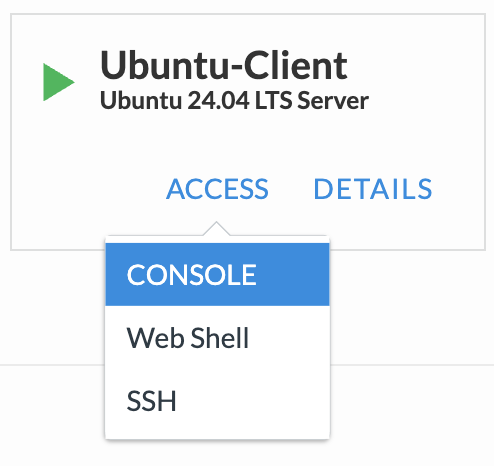
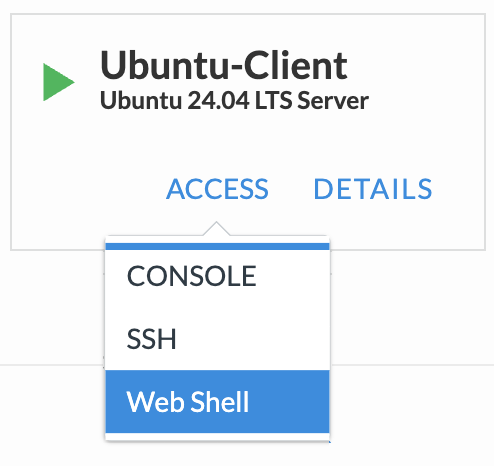
Module2 updates

Changed region(s): [[0.2126, 0.7811, 0.668, 0.9614], [0.2126, 0.5107, 0.668, 0.6609], [0.2429, 0.691, 0.5162, 0.7511]]

diff --git a/docs/class8/Module2/lab2-2.rst b/docs/class8/Module2/lab2-2.rst
@@ -8,7 +8,7 @@ Task 2:  Using Modified TCP Profiles
        :width: 600px
 
 
-   The main difference with **f5-tcp-progessive** is Auto Proxy Buffer is enabled in the Memory Management section.  Auto Proxy Buffer adjuests the TCP buffers settings based on performance of the conenctions.
+   The main difference with **f5-tcp-progessive** is Auto Proxy Buffer is enabled in the Memory Management section.  Auto Proxy Buffer adjusts the TCP buffers settings based on performance of the conenctions.
 
    .. image:: ../images/tcp_progressive_buffers.png
        :width: 800px
@@ -24,12 +24,11 @@ Task 2:  Using Modified TCP Profiles
     timeout 5s tcpdump -nni internal host 10.1.10.15 and 'tcp[14:2] == 0 && tcp[13] == 16' -s 500  
    
 
-   You should see a reduction in TCP Zero Window packets - maybe 300-450 packets in 5s.  This is an improvement but not the best for the traffic in the lab.  As we saw during Lab 1, there is a mix of 16kB-3MB files going from the internal, low latency, side through to the external, higher latency, client side. <<reword last part of this>>  The f5-tcp-progressive TCP profile adjusts the TCP buffers based on connection conditions.  It uses bandwidth delay product to calculate the TCP buffers.
+   You should see a reduction in TCP Zero Window packets - maybe 300-450 packets in 5s.  This is an improvement but not the best for the traffic in the lab.  As we saw during Lab 1, there is a mix of 16kB-3MB files going from the internal, low latency, side through to the external, higher latency, client side. The **f5-tcp-progressive** TCP profile adjusts the TCP buffers based on connection conditions.  It uses bandwidth delay product to calculate the TCP buffers.
    
-      
-   In the lab, there is very low latency on the server-side connetions (pool members) and higher latency on the client-side connections.  With most HTTP traffic the client is requesting something from the server (GET) and the server is replying with the requested data.  The f5-tcp-progressive TCP profile is not adequately setting the buffers because the sending side is high bandwidth with low latency.
+   In the lab, there is very low latency on the server-side connetions (pool members) and higher latency on the client-side connections.  With most HTTP traffic the client is requesting something from the server (GET) and the server is replying with the requested data.  The **f5-tcp-progressive** TCP profile is not adequately setting the buffers because the sending (server) side is high bandwidth with low latency.
 
-3. From the BIGIP01 SSH window, run the following packet capture filtering in SYN and SYN/ACK packets ('tcp[13] & 2 != 0') from the client.::
+3. From the BIGIP01 Web Shell window, run the following packet capture filtering in SYN and SYN/ACK packets ('tcp[13] & 2 != 0') from the client.::
 
     tcpdump -nni external host 10.1.30.6 and 'tcp[13] & 2 != 0' -c 4
 
@@ -40,7 +39,7 @@ Task 2:  Using Modified TCP Profiles
       11:14:45.819337 IP 10.1.30.6.36460 > 10.1.20.103.443: Flags [S], seq 991761495, win 64240, options [mss 1460,sackOK,TS val 142205951 ecr 0,nop,wscale 7], length 0 in slot1/tmm0 lis= port=1.2 trunk=
       11:14:45.819391 IP 10.1.20.103.443 > 10.1.30.6.36460: Flags [S.], seq 2970736692, ack 991761496, win 23360, options [mss 1460,nop,wscale 9,sackOK,TS val 1829159866 ecr 142205951], length 0 out slot1/tmm0 lis=/Common/web01_vs1 port=1.2 trunk=
 
-   Here the client (10.1.30.6) is advertising **wscale 7** with the SYN and BIGIP01 is responding with **wscale 9** in the SYN/ACK so the TCP Window can scale up to the buffer limits determined by the **f5-progressive** TCP profile. 
+   The client (10.1.30.6) is advertising **wscale 7** in the SYN packet and BIGIP01 is responding with **wscale 9** in the SYN/ACK packet so the TCP Window can scale up to the buffer limits determined by the **f5-progressive** TCP profile. 
 
 4. Check the Ubuntu-Client output from the script.  You should see something similar to this::
    
@@ -59,15 +58,17 @@ Task 2:  Using Modified TCP Profiles
       user  0m0.092s
       sys   0m0.100s
 
-   With the **f5-tcp-progressive** TCP profiles, the download performance is much better even though TCP Zero Window packet were still seen during the capture.  This profile allows for TCP Window scaling so more data can be in flight pending an ACK.  It should take ~19 seconds to transfer 27MB of data.  Notice that within each of the 3 runs there is still a difference in throughput from download of file 1 and files 2/3 because the TCP WIndow sizes were still ramping up during download 1.
+   With the **f5-tcp-progressive** TCP profiles in place, the download performance is much better even though TCP Zero Window packet were still seen during the capture.  This profile allows for TCP Window scaling so more data can be in flight pending an ACK.  It should take around 20 seconds to transfer 27MB of data.
+   
+   Notice that within each of the 3 runs there is still a difference in throughput from download of file 1 and files 2/3 because the TCP WIndow sizes were still ramping up during download 1.
 
 
 Test With Custom TCP Buffers
 ----------------------------
 
-1. Go back to the BIGIP01 UI and change web01_vs1 to use a custom TCP profile configured for the lab with 3MB buffers (tcp_3mb) and click the **Update** button at the bottom of the page to save the change.
+1. Go back to the BIGIP01 UI and change Virtual Server **web01_vs1** to use a custom TCP profile configured for the lab with 3MB buffers (tcp_3mb) and click the **Update** button at the bottom of the page to save the change.
 
-   Higher buffers will use more memory for each TCP connection while f5-tcp-progressive can also use more CPU as it calculates the buffer sizes.  Any of these changes should be tested before being applied in a production environment.
+   Higher buffers will use more memory for each TCP connection while f5-tcp-progressive may use more CPU as it calculates the buffer sizes.  Any of these changes should be tested before being applied in a production environment.
  
    .. image:: ../images/tcp_3mb.png
        :width: 500px
@@ -83,7 +84,7 @@ Test With Custom TCP Buffers
     timeout 5s tcpdump -nni internal host 10.1.10.15 and 'tcp[14:2] == 0 && tcp[13] == 16' -s 500 
   
 
-   You should no longer see any TCP Zero Window packets.  TMOS is now able to take in the server response as fast as possible and hold the data in memory until the client acknowleges receipt.  (reword??)::
+   You should no longer see any TCP Zero Window packets.  TMOS is now able to take in the server response as fast as possible and hold the data in memory until the client acknowleges receipt::
 
     timeout 5s tcpdump -nni internal host 10.1.10.15 and 'tcp[14:2] == 0 && tcp[13] == 16' -s 500
     tcpdump: verbose output suppressed, use -v or -vv for full protocol decode
@@ -112,9 +113,9 @@ Test With Custom TCP Buffers
       sys   0m0.089s
 
 
-   With the **tcp_3mb** TCP profiles, the download performance is slightly better but there are no TCP Zero Windows seend during the test window. This profile allows for TCP Window to scale much faster and stay and the maximum value for the remainder of the TCP stream.  It should take ~17 seconds to transfer 27MB of data and the first download is still slower in each loop.
+   With the **tcp_3mb** TCP profiles, the download performance is slightly better but there are no TCP Zero Windows seend during the test window. This profile allows for TCP Window to scale much faster and stay and the maximum value for the remainder of the TCP stream.  It should take around 17 seconds to transfer 27MB of data and the first download is still slower in each loop.
 
-   **Note:** With the virtual environment used for the lab, it is possible that load from other classes running in parallel could skew the result.  The key is that there will no TCP Zero Window packets seen during the 3MB TCP Profile testing.
+   **Note:** With the virtual environment used for the lab, it is possible that load from other classes running in parallel could skew the results.  The key is that there will no TCP Zero Window packets seen during the 3MB TCP Profile testing.
 
 Disable TCP Slow Start
 ----------------------
@@ -129,7 +130,7 @@ Disable TCP Slow Start
 
 
 5. Click the Update button at the bottom of the page to save the setting
-6. Run the test script again from the Ubuntu-Client SSH window::
+6. Run the test script again from the Ubuntu-Client Web Shell window::
     
       ~/zerowindow3.sh
 
@@ -151,6 +152,6 @@ Disable TCP Slow Start
       user	0m0.074s
       sys	0m0.085s
 
-   The total time should be ~8 seconds after disabling Slow Start.  The biggest improvement in the lab is on the client side.  The server-side is able to react quicker to TCP Window changes with the low latency.  The client-side is now able to ramp up faster with Slow Start disabled.  Slow Start is there to prevent TCP connections from overloading available network bandwidth.  If you see congestion and packet retransmissions within an environment you should leave Slow Start enabled.  With the flxibility of TMOS, Slow Start can be enabled/disabled on either server or client sides of the connection independently.
+   The total time should be around 8 seconds after disabling Slow Start.  The biggest improvement in the lab is on the client side.  The server-side is able to react quicker to TCP Window changes with the low latency.  The client-side is now able to ramp up faster with Slow Start disabled.  Slow Start is there to prevent TCP connections from overloading available network bandwidth.  If you see congestion and packet retransmissions within an environment you should leave Slow Start enabled.  With the flxibility of TMOS, Slow Start can be enabled/disabled on either server or client sides of the connection independently.
 
 

diff --git a/docs/class8/Module2/lab2-1.rst b/docs/class8/Module2/lab2-1.rst
@@ -1,10 +1,10 @@
 Task 1: Review Base TCP Profiles
 ================================
 
-#. From the left-side menu, go to **Local Traffic > Profiles > Protocol > TCP**
-#. Click the **Parent Profile** column title twice to sort the Parent Profiles in decending order.
+#. From the left-side BIGIP01 menu, go to **Local Traffic > Profiles > Protocol > TCP**
+#. Click the **Parent Profile** column title twice to sort the Parent Profiles in ascending order.
 
-   Most profiles in TMOS have a parent/child structure where the child can both inherit and override settings from the parent profile.  Within the list of TCP profiles, you can see that all included profiles end up sourcing from the base profile named tcp - tcp > tcp-legacy, tcp-legacy > tcp-wan-optimized, etc. 
+   Most profiles in TMOS have a parent/child structure where the child can both inherit and override settings from the parent profile.  Within the list of TCP profiles, you can see that all included profiles end up sourcing from the base profile named **tcp**.  For example, tcp-wan-optimized is a child of tcp-legacy and tcp-legacy is a child of tcp 
 
    .. figure:: ../images/tcp_profiles_sorted.png
       :width: 750px
@@ -17,17 +17,17 @@ Task 1: Review Base TCP Profiles
    .. figure:: ../images/tcp_legacy_buffers.png
       :width: 700px
 
-   At this point, Virtual Server **web01-vs1** is using the older TCP profiles - tcp-wan-optimized (client-side) and tcp-lan-optimized (server-side).  These profiles are parented from tcp-legacy and have small TCP buffers that do not allow for TCP Window scaling.  These profiles are commonly assigned to Virtual Servers on BIG-IP systems that have been upgraded across many versions of TMOS -  For exaample v10 > v12 > v14 > v15 > v17. 
+   At this point, Virtual Server **web01-vs1** is using the older TCP profiles - **tcp-wan-optimized** (client-side) and **tcp-lan-optimized** (server-side).  These profiles are parented from tcp-legacy and have small TCP buffers that do not allow for TCP Window scaling limiting the amount of inflight data before an ACK.  These profiles are commonly assigned to Virtual Servers on BIG-IP systems that have been upgraded across many versions of TMOS.  For example, v10 > v12 > v14 > v15 > v17. 
 
 
-4. If not still open from the previous lab, connect to the Ubuntu-Client via Web Shell using the Access dropdown
+4. If not still open from the previous lab, connect to the Ubuntu-Client via **Web Shell** using the Access dropdown
 
    .. image:: ../images/udf_client_webshell.png
-       :width: 452px
+       :width: 430px
 
 
 
-5. If not still open from the previous lab, connect to BIGIP01 via SSH using the Access dropdown of the component and follow the same prompts as with the Ubuntu-Client
+5. If not still open from the previous lab, connect to BIGIP01 via **Web Shell** using the Access dropdown
 
    .. image:: ../images/udf_bigip01_webshell.png
        :width: 450px

diff --git a/docs/class8/Module2/module2.rst b/docs/class8/Module2/module2.rst
@@ -1,9 +1,7 @@
 Lab 2: Working With TCP Profiles
 ================================
 
-In this module you will learn how the TCP Profile affects traffic flows through TMOS.  
-
-In Lab 2, you will look at the base TCP profiles within TMOS and some legacy TCP profiles that may exist within your BIG-IP environments.  There are many tuning options within the TCP profiles.  You'll see some key settings that should always be adjusted and some options that are more appplication/environment specific.  With more details about the traffic, adjustments can be made to improve the speed of the data through the BIGIP.  Knowing what the lab traffic patterns are, you will apply a custom TCP profile and compare the performance with the base TCP profiles.
+In Lab 2, you will learn how the TCP Profile affects traffic flows through TMOS. You will look at the base TCP profiles within TMOS and some legacy TCP profiles that may exist within your BIG-IP environments.  There are many tuning options within the TCP profiles.  You'll see some key settings that should always be adjusted and some options that are more appplication/environment specific.  With more details about the traffic, adjustments can be made to improve the speed of the data through TMOS.  Knowing what the lab traffic patterns are, you will apply a custom TCP profile and compare the performance with the base TCP profiles.
 
 Supporting Documents:
 ---------------------
